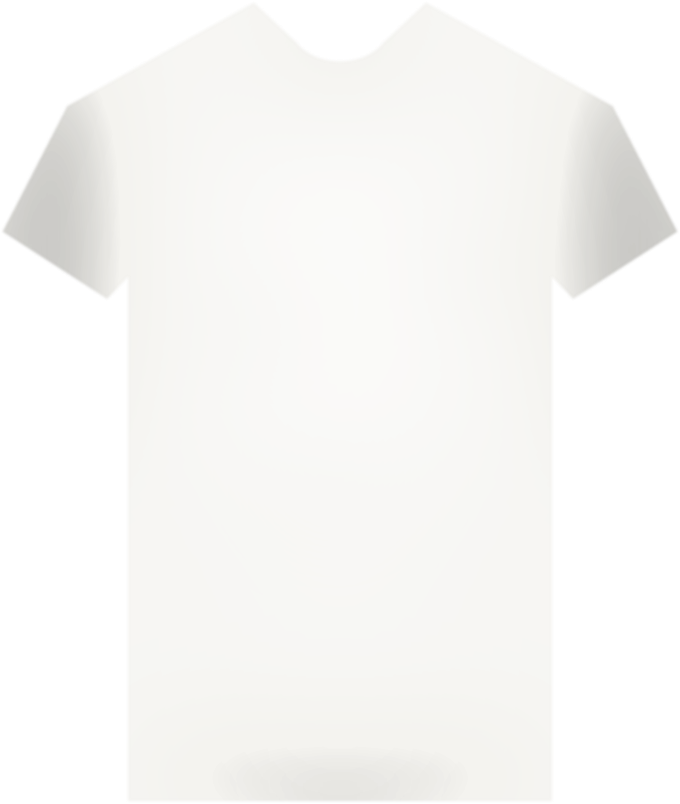
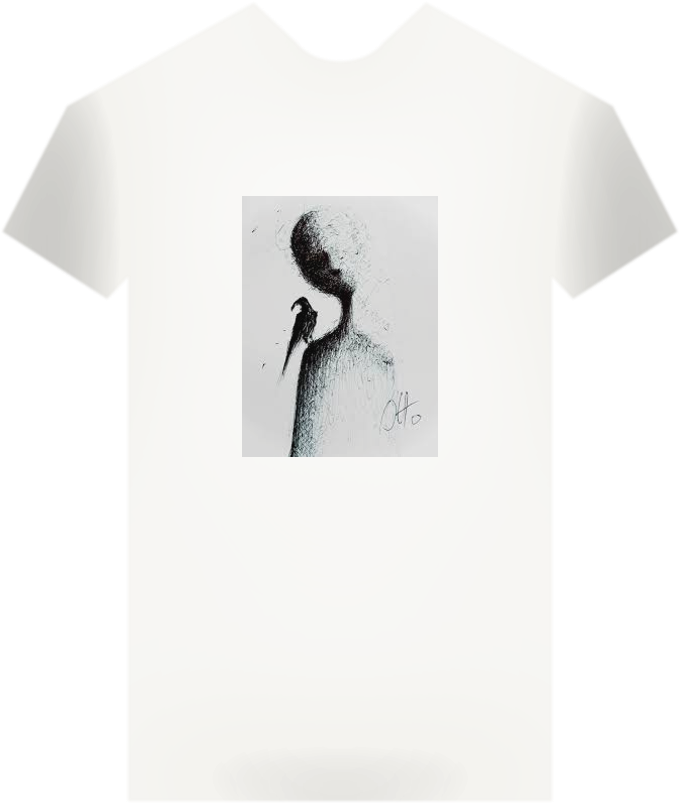
Hero: printed poster (never a blank shirt) + stronger 'Be your own brand' copy

Changed region(s): [[0.3397, 0.2177, 0.6485, 0.5908]]

diff --git a/static/v2/index.html b/static/v2/index.html
@@ -33,8 +33,8 @@
   <!-- ───────────────────────── hero ──────────────────────── -->
   <header class="hero-stage" id="hero">
     <div class="hero-copy">
-      <p class="hero-tag">Wear what's true.</p>
-      <p class="hero-blurb">Your design, printed on premium tees &amp; hoodies — made to order.</p>
+      <p class="hero-tag">Be your own brand.</p>
+      <p class="hero-blurb">Your art on premium tees &amp; hoodies — you design it, you wear it, you own it.</p>
       <div class="hero-line"></div>
       <nav class="hero-sub">
         <a href="/studio" class="on">Create</a>